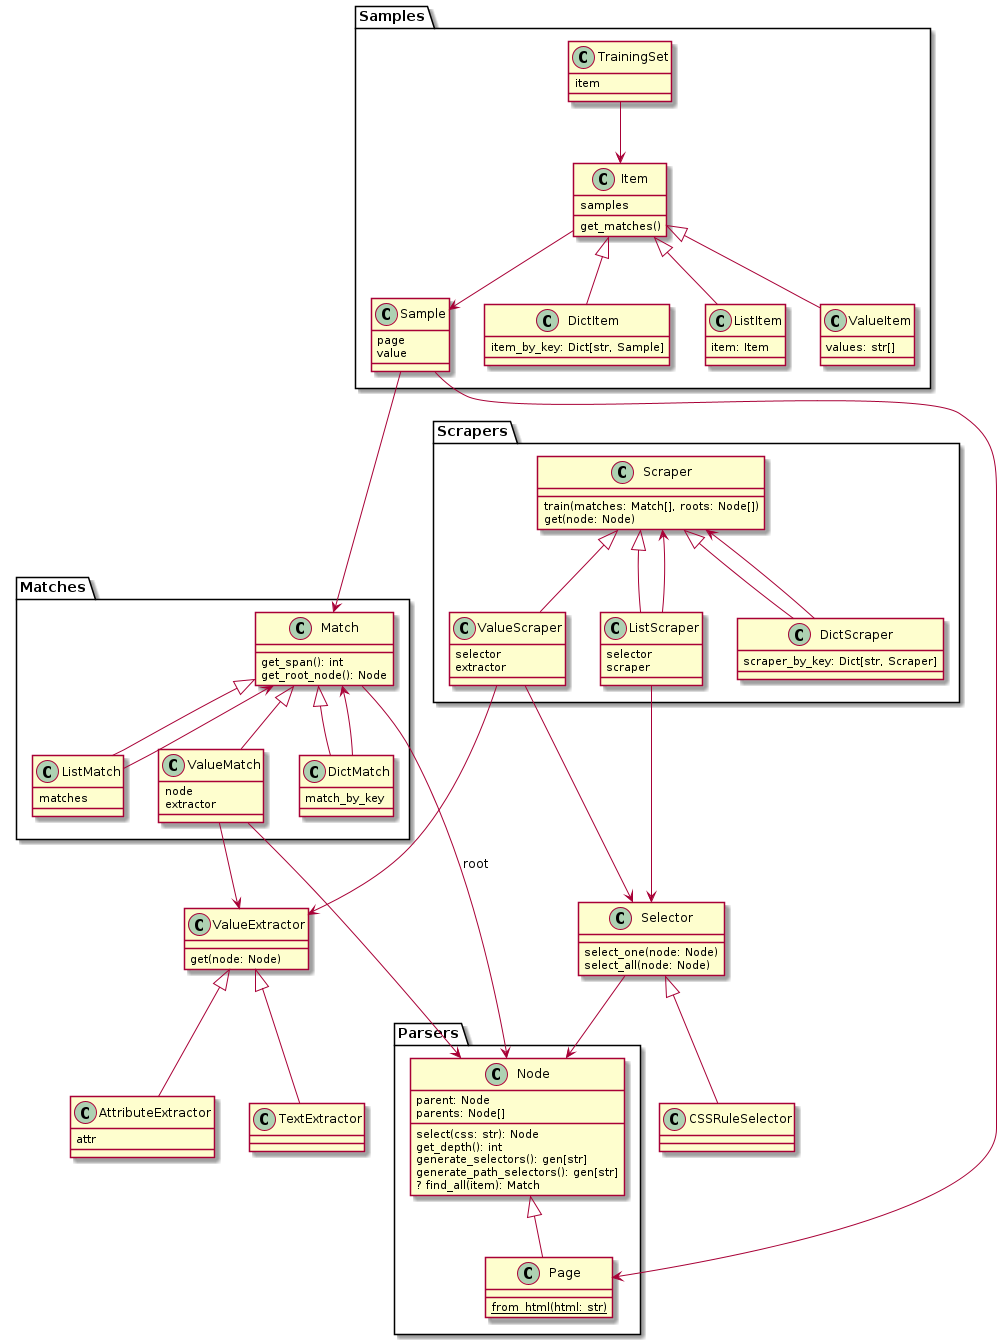
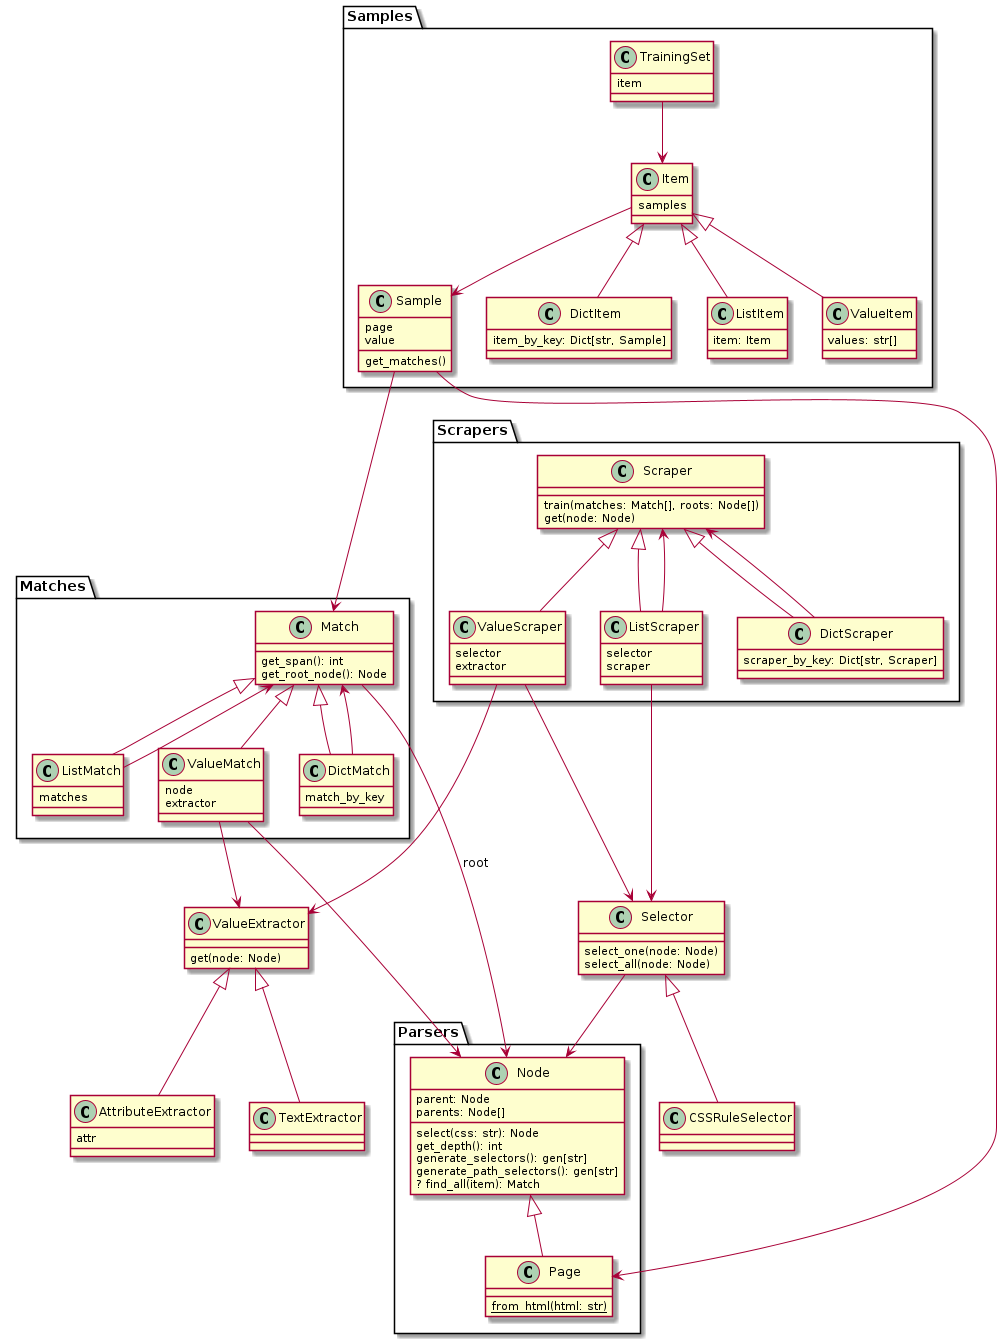
Add match extraction

diff --git a/mlscraper/samples.py b/mlscraper/samples.py
@@ -1,14 +1,77 @@
+import typing
+from itertools import product
+
+from mlscraper.util import Page
+
+
 class ItemStructureException(Exception):
     pass
 
 
+class Match:
+    """
+    Occurrence of a specific sample on a page
+    """
+
+
+class DictMatch(Match):
+    match_by_key = None
+
+    def __init__(self, match_by_key):
+        self.match_by_key = match_by_key
+
+    def __repr__(self):
+        return f"<{self.__class__.__name__} {self.match_by_key=}>"
+
+
+class ListMatch(Match):
+    matches = None
+
+    def __init__(self, matches):
+        self.matches = matches
+
+    def __repr__(self):
+        return f"<{self.__class__.__name__} {self.matches=}>"
+
+
+class ValueMatch(Match):
+    node = None
+    extractor = None
+
+    def __repr__(self):
+        return f"<{self.__class__.__name__} {self.node=}, {self.extractor=}>"
+
+
 class Sample:
-    def __init__(self, page, value):
+    def __init__(self, page: Page, value: typing.Union[str, list, dict]):
         self.page = page
         self.value = value
 
     def __repr__(self):
         return f"<{self.__class__.__name__} {self.page=}, {self.value=}>"
+
+    def get_matches(self):
+        # todo: fix creating new sample objects, maybe by using Item class?
+
+        if isinstance(self.value, str):
+            return self.page.find_all(self.value)
+
+        if isinstance(self.value, list):
+            matches_by_value = {
+                v: Sample(self.page, v).get_matches() for v in self.value
+            }
+            return ListMatch(list(product(*[matches_by_value[v] for v in self.value])))
+
+        if isinstance(self.value, dict):
+            matches_by_key = {
+                k: Sample(self.page, self.value[k]).get_matches() for k in self.value
+            }
+            return [
+                DictMatch(dict(zip(matches_by_key.keys(), mc)))
+                for mc in product(*matches_by_key.values())
+            ]
+
+        raise RuntimeError(f"unsupported value: {self.value}")
 
 
 class TrainingSet:
@@ -101,23 +164,6 @@ class ValueItem(Item):
         if not isinstance(sample.value, str):
             raise ItemStructureException(f"str expected, {sample.value} given")
         super().add_sample(sample)
-
-
-class Match:
-    pass
-
-
-class DictMatch(Match):
-    match_by_key = None
-
-
-class ListMatch(Match):
-    matches = None
-
-
-class ValueMatch(Match):
-    node = None
-    extractor = None
 
 
 def make_training_set(pages, items):

diff --git a/tests/test_samples.py b/tests/test_samples.py
@@ -1,6 +1,11 @@
 import pytest
 
-from mlscraper.samples import ItemStructureException, make_training_set
+from mlscraper.samples import (
+    DictMatch,
+    ItemStructureException,
+    Sample,
+    make_training_set,
+)
 from mlscraper.util import Page
 
 
@@ -15,3 +20,12 @@ class TestTrainingSet:
         items = [{"a": "1", "b": "2"}, {"a": "3", "b": []}]
         with pytest.raises(ItemStructureException):
             make_training_set(pages, items)
+
+
+class TestMatch:
+    def test_get_matches_basic(self):
+        page_html = "<html><body><h1>test</h1><p>2010</p><div class='footer'>2010</div></body></html>"
+        s = Sample(Page(page_html), {"h": "test", "year": "2010"})
+        matches = s.get_matches()
+        assert len(matches) == 2
+        assert all(isinstance(m, DictMatch) for m in matches)

diff --git a/mlscraper/util.py b/mlscraper/util.py
@@ -120,6 +120,9 @@ class Node:
     def select(self, css_selector):
         return [get_node_for_soup(n) for n in self.soup.select(css_selector)]
 
+    def __repr__(self):
+        return f"<{self.__class__.__name__} {self.soup}>"
+
 
 class Page(Node):
     """
@@ -148,6 +151,9 @@ class TextValueExtractor(Extractor):
 
     def extract(self, node: Node):
         return node.soup.text
+
+    def __repr__(self):
+        return f"<{self.__class__.__name__}>"
 
 
 class AttributeValueExtractor(Extractor):
